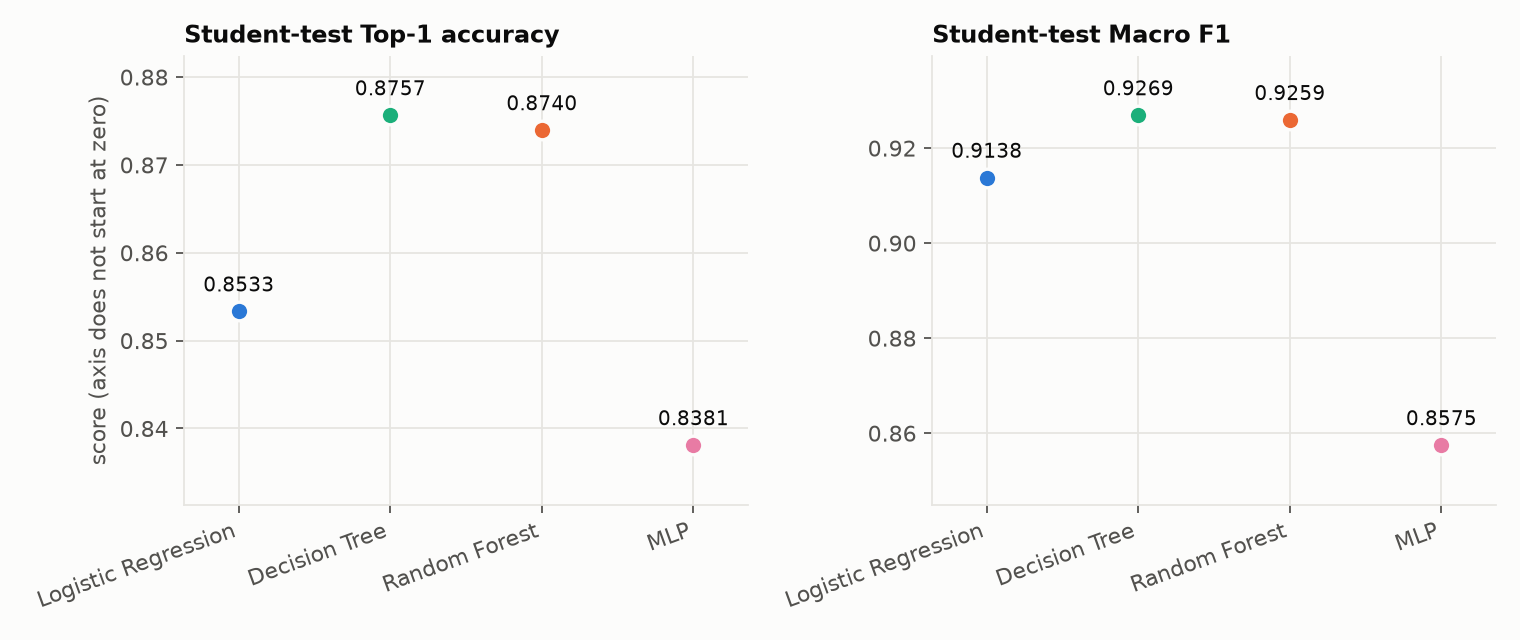
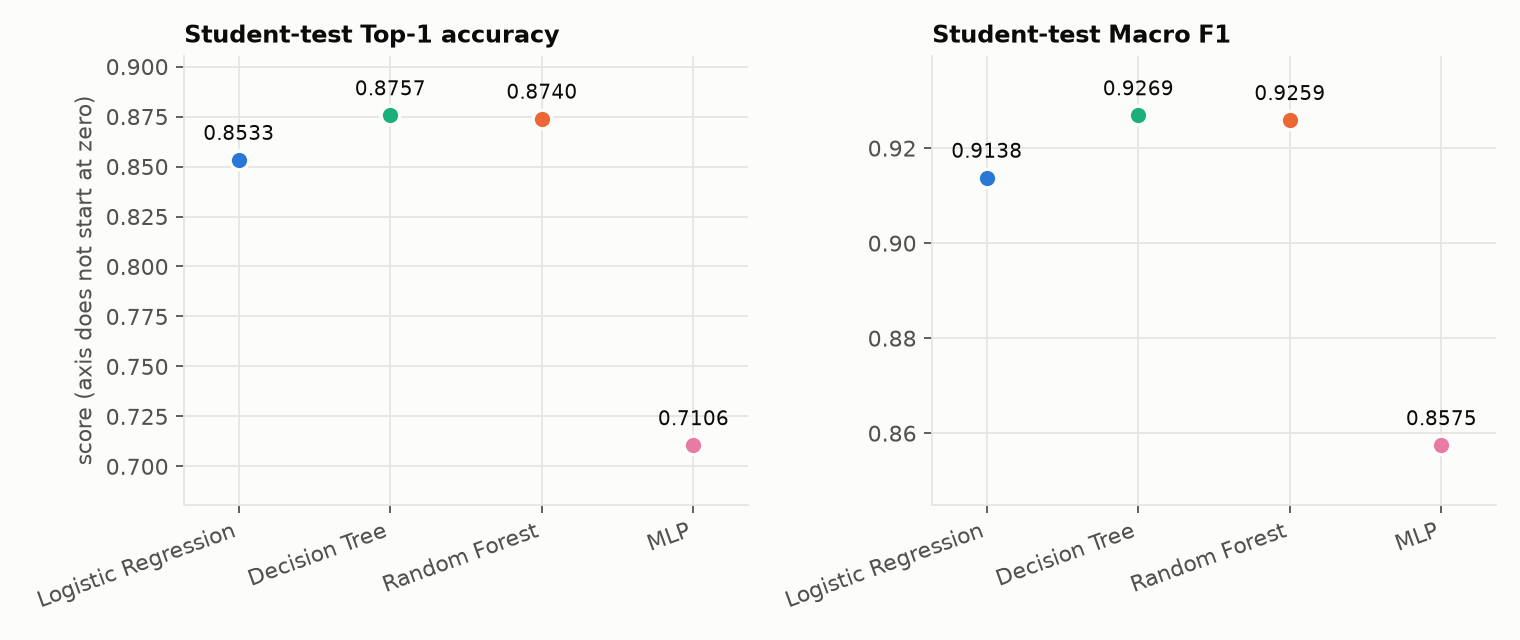
fix(metrics): update MLP student metrics to pure classifier-only in comparison table

diff --git a/results/tables/model_comparison.md b/results/tables/model_comparison.md
@@ -3,4 +3,4 @@
 | Logistic Regression | Linear / probabilistic | C=1.0, max_iter=1000, solver=lbfgs | 0.9325 ± 0.0078 | 0.8533 | 0.9265 | 0.9138 | 0.1428 | 0.0010 |
 | Decision Tree | Decision tree (single, non-ensemble) | max_depth=10, min_samples_leaf=20 | 0.9378 ± 0.0076 | 0.8757 | 0.9371 | 0.9269 | 0.1071 | 0.0002 |
 | Random Forest | Bagging ensemble (trees) | n_estimators=100, max_depth=None, min_samples_leaf=20, max_features=sqrt, max_samples=0.25 | 0.9404 ± 0.0074 | 0.8740 | 0.9389 | 0.9259 | 0.0993 | 0.0295 |
-| MLP | Neural network (MLP) | hidden_layers=(64, 32), activation=relu, alpha=0.0001, solver=adam | 0.8909 ± 0.0138 | 0.8381 | 0.9441 | 0.8575 | 0.1641 | 0.0077 |
+| MLP | Neural network (MLP) | hidden_layers=(64, 32), activation=relu, alpha=0.0001, solver=adam | 0.8909 ± 0.0138 | 0.7106 | 0.9142 | 0.8575 | 0.1641 | 0.0077 |
